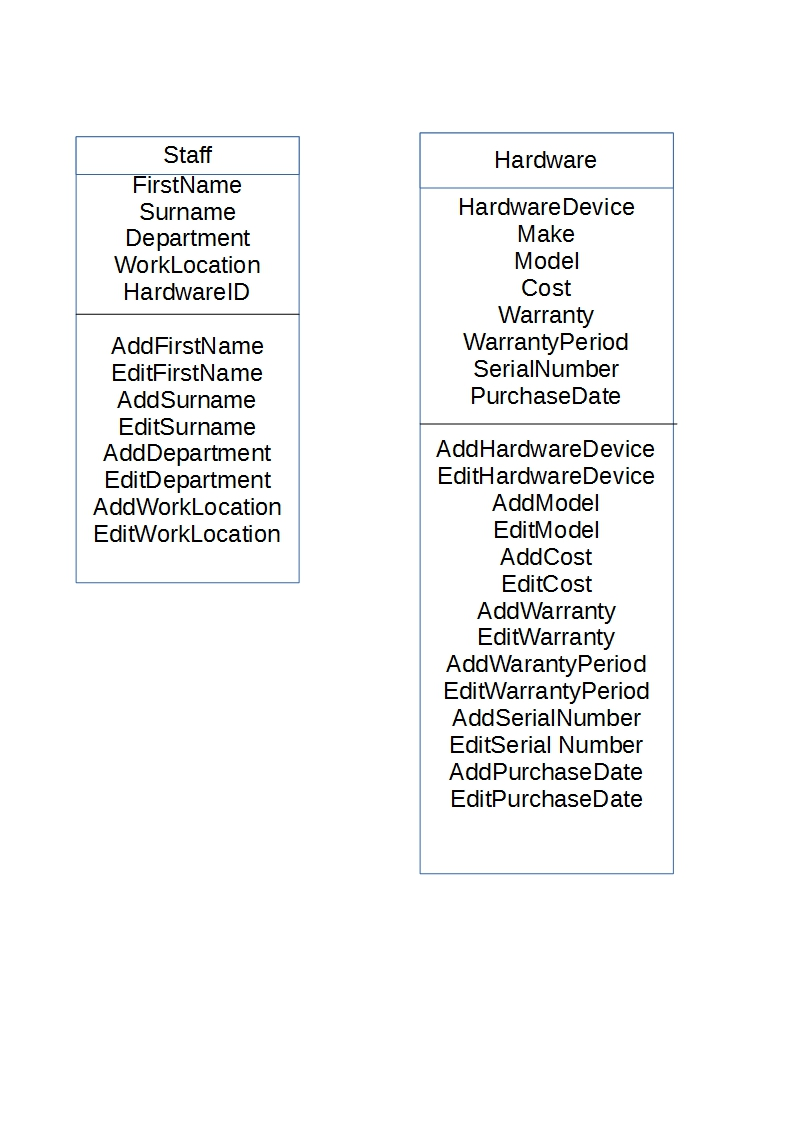
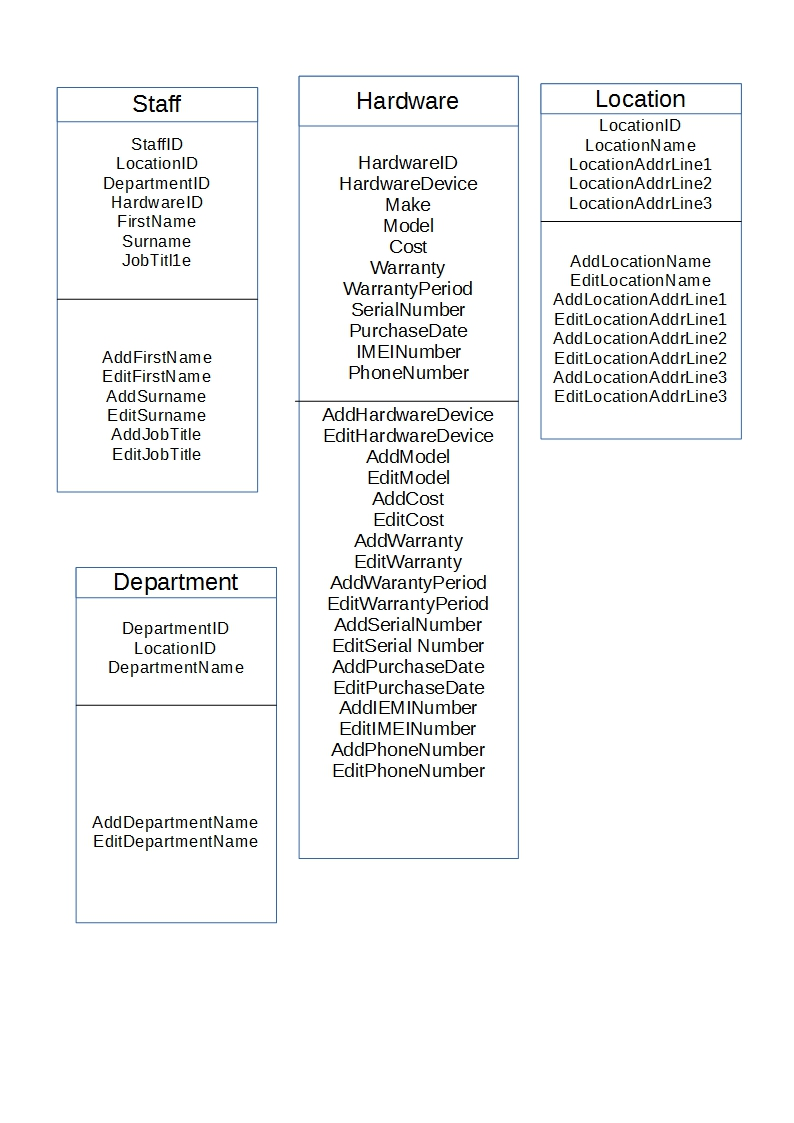
Finished - need to check over

diff --git a/Coursework/Analysis/analysis.tex b/Coursework/Analysis/analysis.tex
@@ -340,6 +340,9 @@ DepartmentID &Integer				& 1-4				&Range Validation \textgreater0 and \textless=
 DepartmentName & String				& 1-30				& Length		& Financing		&	\\ \hline
 LocationID &Integer				& 1-4				&Range Validation \textgreater0 and \textless=20		& 	24	&		\\ \hline
 LocationName & String				& 1-30				& Length		&	Orwell	 &  \\ \hline
+LocationAddrLine1 & String				& 1-30				& Length		&	50 Fisher's Ln	 &  \\ \hline
+LocationAddrLine2 & String				& 1-30				& Length		&	Orwell	 &  \\ \hline
+LocationAddrLine3  & String				& 1-30				& Length		&	Royston 	 &  \\ \hline
 \end{tabular}
 \end{center}
 
@@ -386,12 +389,12 @@ One record has 196 + 2 + 1 + 3 + 1 = 203 bytes
 
 The location table has the following fields:
 
-1 string field (length = 30bytes)
+4 string fields (length = 30bytes)
 1 integer (up to 20 (1 byte)
 
-One record has 30 + 1 = 31 bytes
+One record has 120 + 1 = 121 bytes
 20 records are stored so:
-31 x 20 = 620 bytes
+121 x 20 = 2420 bytes
 
 The department table has the following fields:
 
@@ -411,7 +414,7 @@ The link table (StaffHardware)
 
 \
 
-\textbf{Therefore the whole database needs a minimum of (45,945 + 40,600 + 620 + 2400 + 1050 = 90615 Bytes - 90.615 KB) a rounded value of 90.6 KB.}
+\textbf{Therefore the whole database needs a minimum of (45,945 + 40,600 + 2420 + 2400 + 1050 = 92415 Bytes - 92.415) a rounded value of 92.4 KB.}
 
 
 \section{Objectives}
@@ -492,7 +495,7 @@ Department  (\underline{DepartmentID}, DepartmentName, \textit{ LocationID})
 \
 
 \begin{center}
-Location  (\underline{LocationID}, LocationName)
+Location  (\underline{LocationID}, LocationName, LocationAddrLine1, LocationAddrLine2, LocationAddrLine3)
 \end{center}
 
 
@@ -504,7 +507,6 @@ Location  (\underline{LocationID}, LocationName)
 \begin{itemize}
 \item Staff
 \item Hardware
-\item StaffHardware
 \item Department
 \item Location
 \end{itemize}
@@ -515,7 +517,7 @@ Location  (\underline{LocationID}, LocationName)
 \hspace*{-1.3cm}
 \vspace*{-1cm}
 \includegraphics[width=1\textwidth]{RelationshipDiagram.jpg}
-\caption{The class definitions show all the attributes for the class staff and the class Hardware. All staff (no matter if they are a manager or IT staff) will enter their data the same. Under the line shows all the methods for this class. Which currently are all edit and add methods.} \label{Relationship Diagrams}
+\caption{The relationship diagram shows how staff own many hardware devices. The staff work at one work location and that location has many different departments. Many staff are part of one department. } \label{Relationship Diagrams}
 \end{figure}
 
 \subsection{Class definitions}
@@ -524,7 +526,7 @@ Location  (\underline{LocationID}, LocationName)
 \hspace*{-1.3cm}
 \vspace*{-1cm}
 \includegraphics[width=1\textwidth]{ClassDefinitions.jpg}
-\caption{The relationship table shows the different staff related to my proposed system. They all get assigned hardware devices in the system and the IT staff will help all staff. The line managers are in charge of the colleagues in their department.} \label{Class Definitions}
+\caption{The class definitions show the attributes and methods for each class. The staff class will hold unique IDs from the other classes to make the relationship} \label{Class Definitions}
 \end{figure}
 
 \section{Other Abstractions and Graphs}
